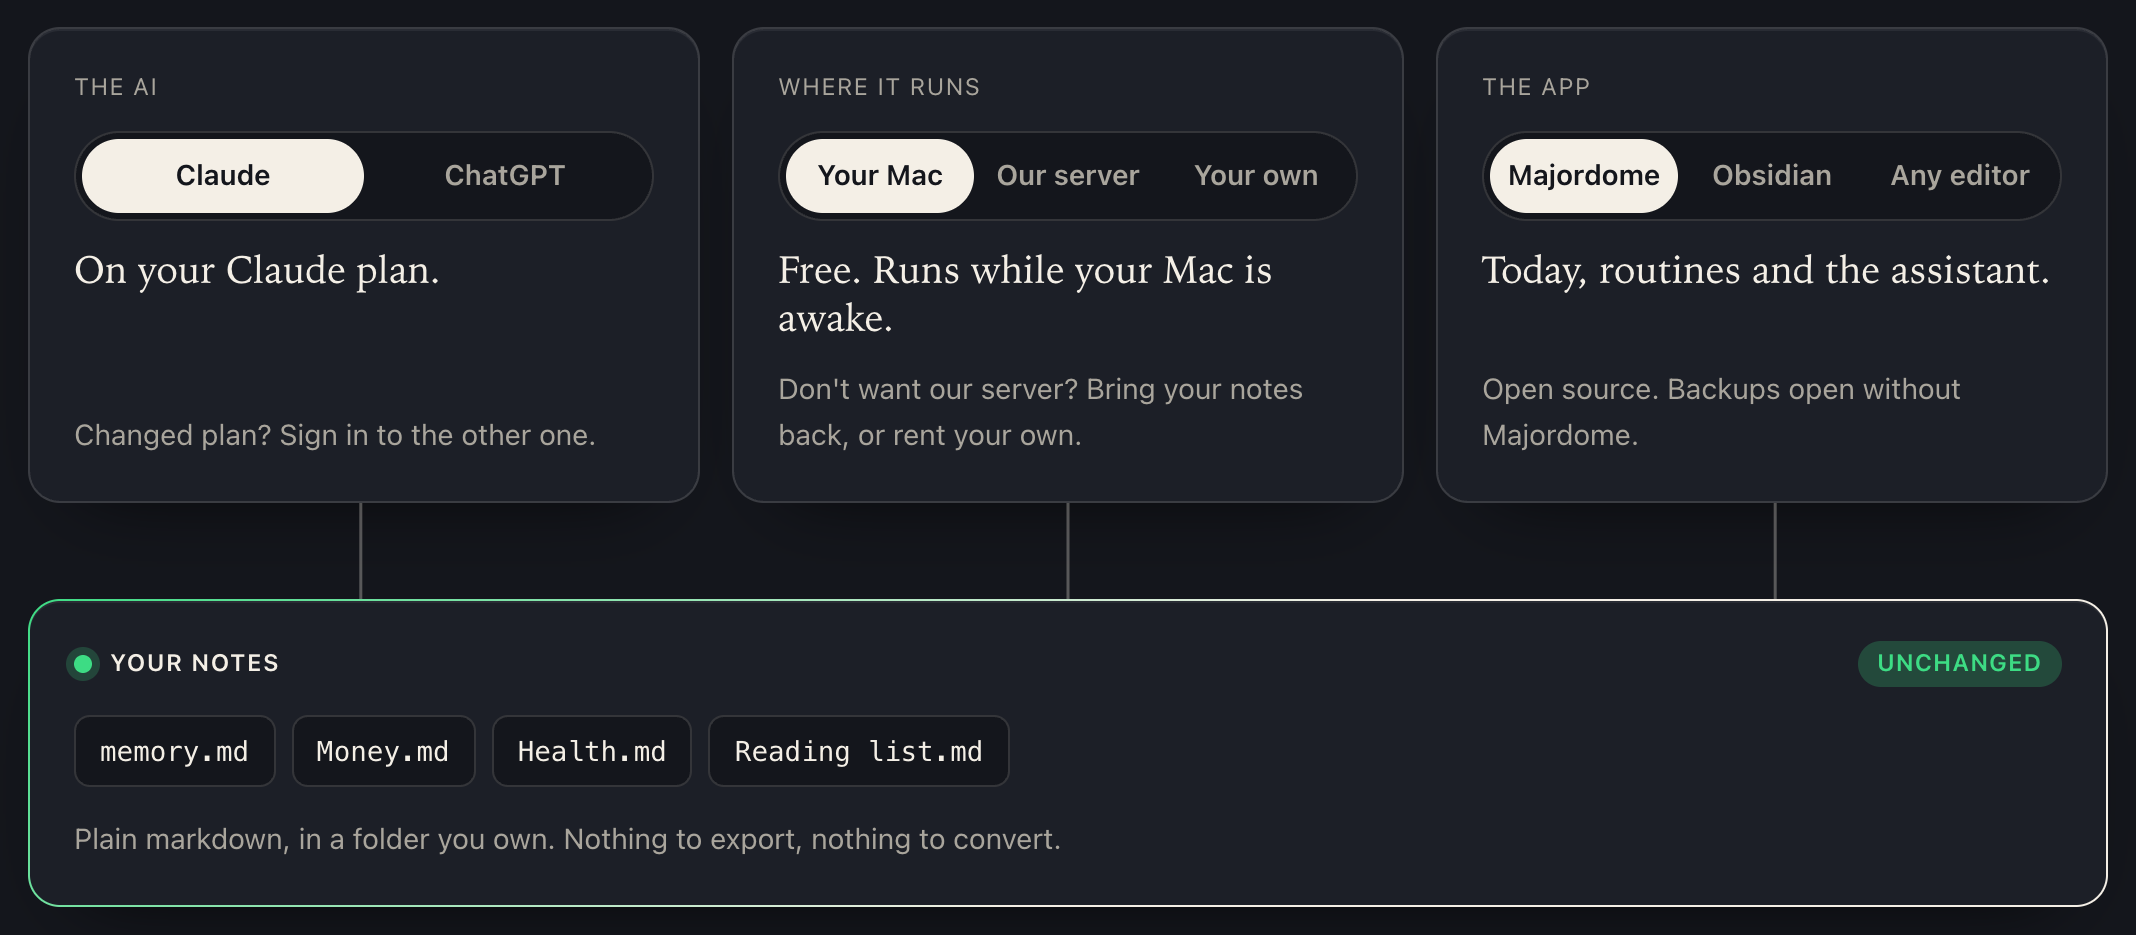
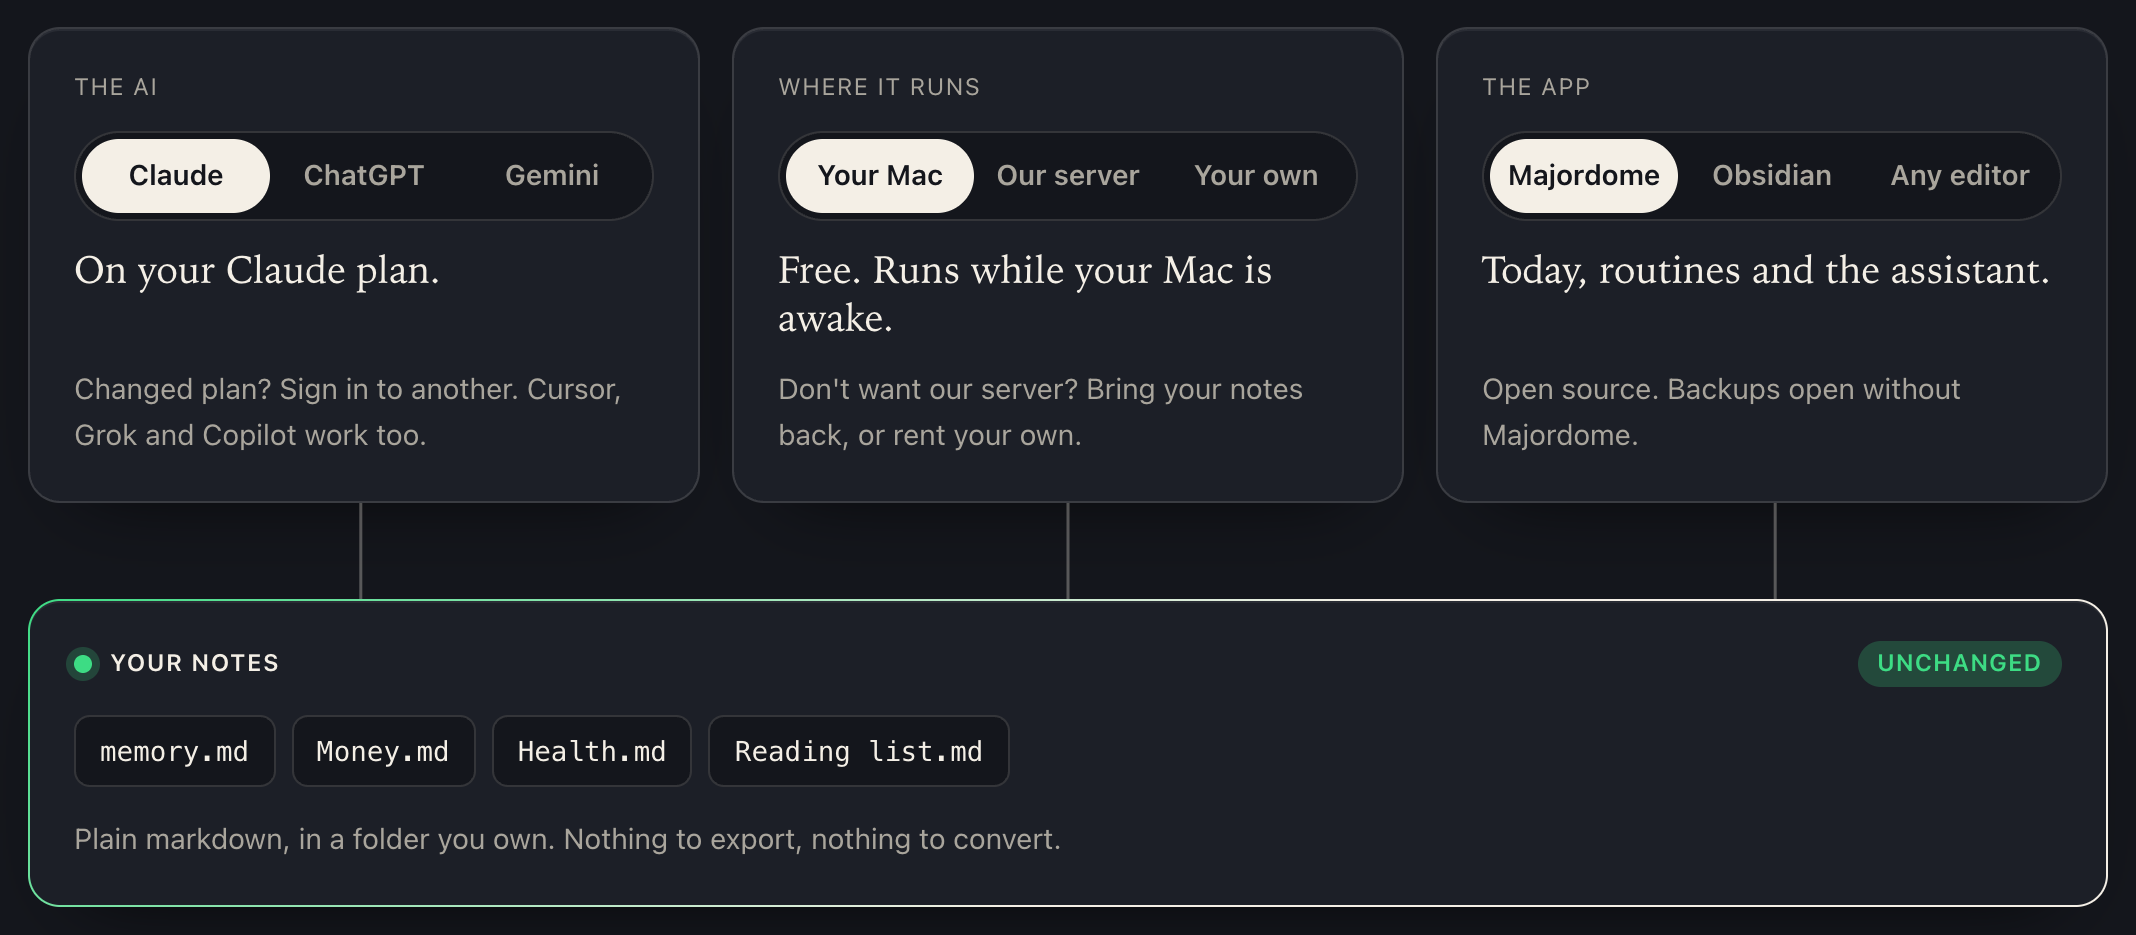
feat(site): the AI is Claude, ChatGPT, Gemini and more, on a Majordome server too
The landing page said Claude or ChatGPT and that a hosted server uses Claude.
The server image ships both Claude Code and Codex, and every AI T3 Code
connects to still works, so the page, the server offer and the trust page now
say so. Gemini is a third choice in the no lock-in diagram.

Changed region(s): [[0.0309, 0.4032, 0.2781, 0.4963], [0.0618, 0.1241, 0.2781, 0.2481]]

diff --git a/site/index.html b/site/index.html
@@ -2117,7 +2117,7 @@
               </div>
               <div class="card src">
                 <div class="k">Your AI</div>
-                <div class="models"><b>Claude</b> or <b>ChatGPT</b></div>
+                <div class="models"><b>Claude</b><b>ChatGPT</b><b>Gemini</b>and more</div>
                 <div class="cap">On the plan you already have</div>
               </div>
             </div>
@@ -2193,9 +2193,18 @@
                   <button type="button" aria-pressed="false" data-says="On your ChatGPT plan.">
                     ChatGPT
                   </button>
+                  <button
+                    type="button"
+                    aria-pressed="false"
+                    data-says="On your Google account, through Antigravity."
+                  >
+                    Gemini
+                  </button>
                 </div>
                 <p class="says" aria-live="polite">On your Claude plan.</p>
-                <p class="cap">Changed plan? Sign in to the other one.</p>
+                <p class="cap">
+                  Changed plan? Sign in to another. Cursor, Grok and Copilot work too.
+                </p>
               </div>
               <div class="card swap">
                 <div class="k">Where it runs</div>
@@ -2581,7 +2590,7 @@
                   <a href="/download">Majordome for Mac<span>Free and open source.</span></a>
                 </li>
                 <li>
-                  <div>Your AI plan<span>Claude or ChatGPT, the one you have.</span></div>
+                  <div>Your AI plan<span>Claude, ChatGPT or another, the one you have.</span></div>
                 </li>
               </ul>
               <div class="clock">
@@ -2671,8 +2680,8 @@
             </div>
           </div>
           <p class="note">
-            In each one the assistant is your own Claude or ChatGPT plan. A Majordome server uses
-            Claude. The awake hours drawn are an example.
+            In each one the assistant is your own AI plan, on a Majordome server too. The awake
+            hours drawn are an example.
           </p>
         </section>
 
@@ -2693,7 +2702,7 @@
               </div>
               <div class="go" aria-hidden="true"></div>
               <div class="card ai">
-                <div class="k">Claude or ChatGPT</div>
+                <div class="k">Your AI</div>
                 <p>
                   Gets your message and the notes it reads, straight from your Mac, under your own
                   account.
@@ -2723,7 +2732,9 @@
           </div>
           <ul class="yours rise">
             <li><strong>Your files</strong><span>Markdown on your machine.</span></li>
-            <li><strong>Your AI plan</strong><span>Claude or ChatGPT. Nothing extra.</span></li>
+            <li>
+              <strong>Your AI plan</strong><span>Claude, ChatGPT or another. Nothing extra.</span>
+            </li>
             <li>
               <strong>Your machines</strong
               ><span>No account needed. Sign in only to link devices.</span>

diff --git a/site/trust/index.html b/site/trust/index.html
@@ -230,8 +230,8 @@
       <p>
         Majordome is published and run by one person, Samy Rabah, in France. A hosted server is a
         machine in Amsterdam or Paris rented from <a href="https://fly.io">Fly.io</a>, in an account
-        he owns. It holds your notes, your conversations and your sign-in to Claude, because the
-        assistant has to read them to work while your own devices are off.
+        he owns. It holds your notes, your conversations and your AI sign-in, because the assistant
+        has to read them to work while your own devices are off.
       </p>
 
       <h3>What he can technically do</h3>
@@ -254,7 +254,7 @@
       <ul>
         <li>Never to read your notes or your conversations.</li>
         <li>Never to open a terminal on your server unless you ask for help in writing.</li>
-        <li>Never to use your sign-in to Claude.</li>
+        <li>Never to use your AI sign-in.</li>
         <li>
           To put on your server only the releases published for everyone, built from the
           <a href="https://github.com/Wozacosta/majordome">public code</a>.
@@ -268,9 +268,9 @@
 
       <h3>What is true wherever Majordome runs</h3>
       <p>
-        The assistant is Claude. What it reads to answer you goes to Anthropic under your own Claude
-        plan and their terms. That is the same on a hosted server, on your own server and on your
-        computer.
+        The assistant is the AI you signed in to, such as Claude or ChatGPT. What it reads to answer
+        you goes to that provider, Anthropic or OpenAI, under your own plan and their terms. That is
+        the same on a hosted server, on your own server and on your computer.
       </p>
 
       <h2>The better choice: your own server</h2>

diff --git a/site/start/index.html b/site/start/index.html
@@ -354,7 +354,7 @@
           <li>Always on, in Paris</li>
           <li>Your notes and conversations on all your devices</li>
           <li>A copy of its disk every day, kept 30 days</li>
-          <li>Runs on your own Claude plan, which is not included</li>
+          <li>Runs on your own Claude or ChatGPT plan, which is not included</li>
         </ul>
         <button class="button wide" id="buy" type="button">Continue to payment</button>
         <p class="muted small">

diff --git a/README.md b/README.md
@@ -52,7 +52,8 @@ sensitive. What it learns goes into a note you can open, edit or delete.
 
 No lock-in.
 
-- **Changed AI plan?** Sign in to the other one. Claude or ChatGPT, the notes are the same.
+- **Changed AI plan?** Sign in to another. Claude, ChatGPT, Gemini (through Google's Antigravity),
+  Cursor, Grok, Copilot and more: the notes are the same.
 - **Don't want our server?** Bring your notes back to your computer, or
   [rent your own](docs/user/always-on-server.md) for about €5 a month.
 - **Done with the app?** The notes are plain markdown: open the folder in Obsidian or any editor.
